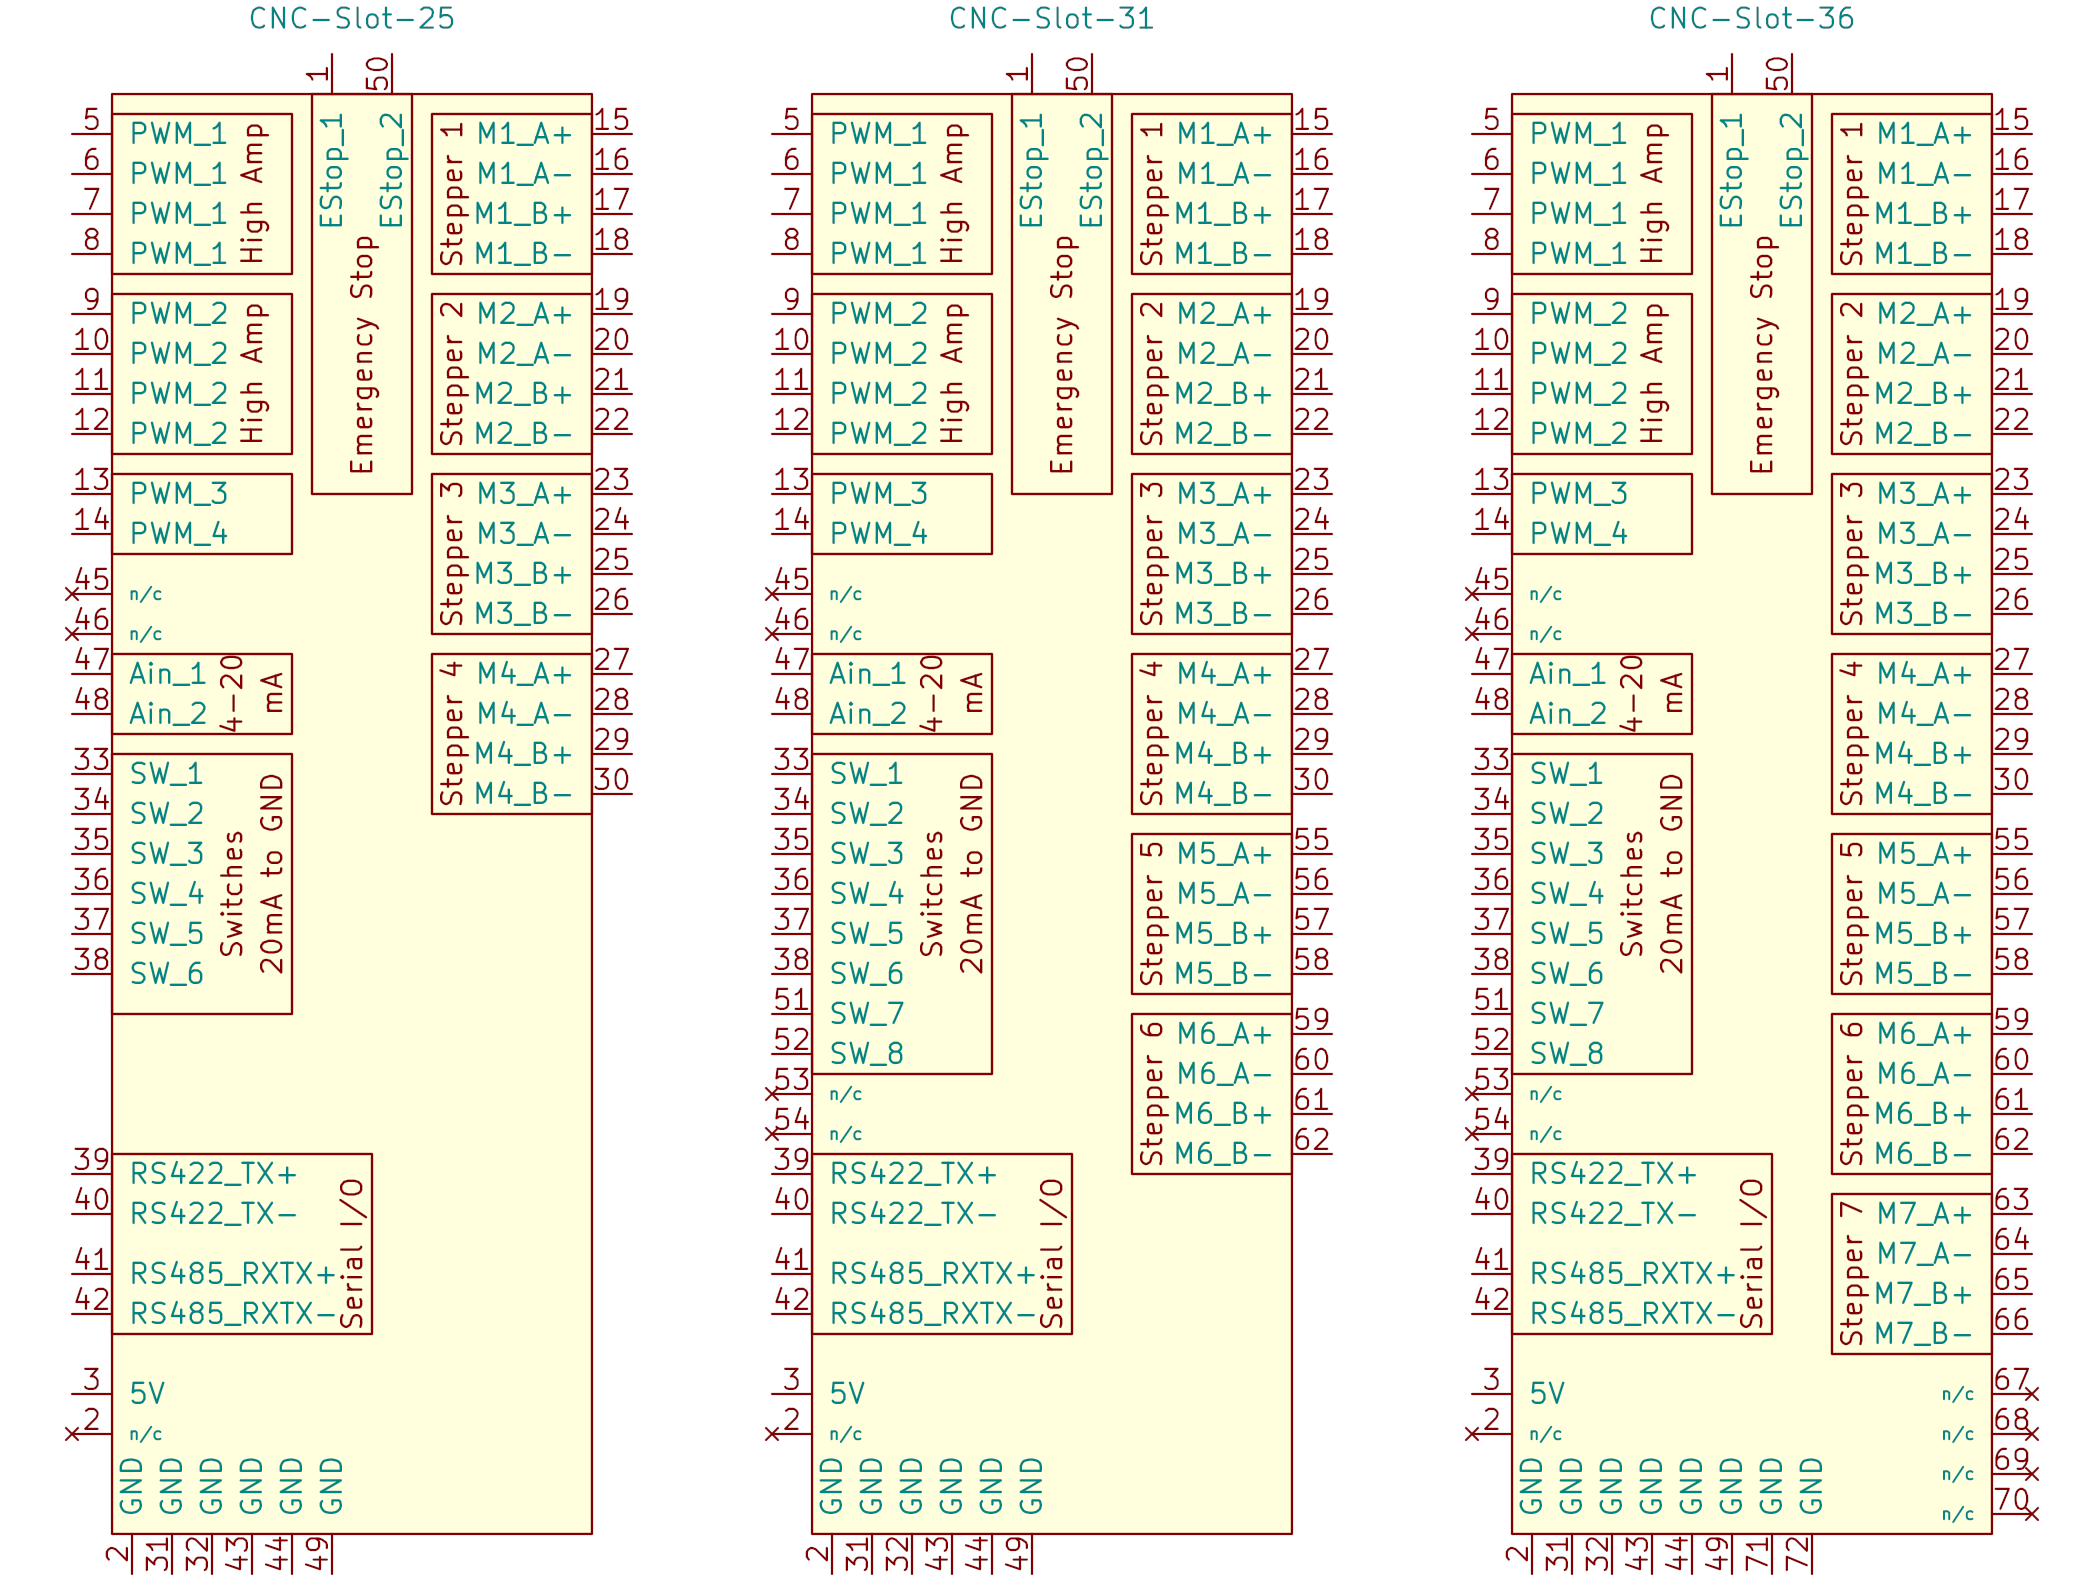
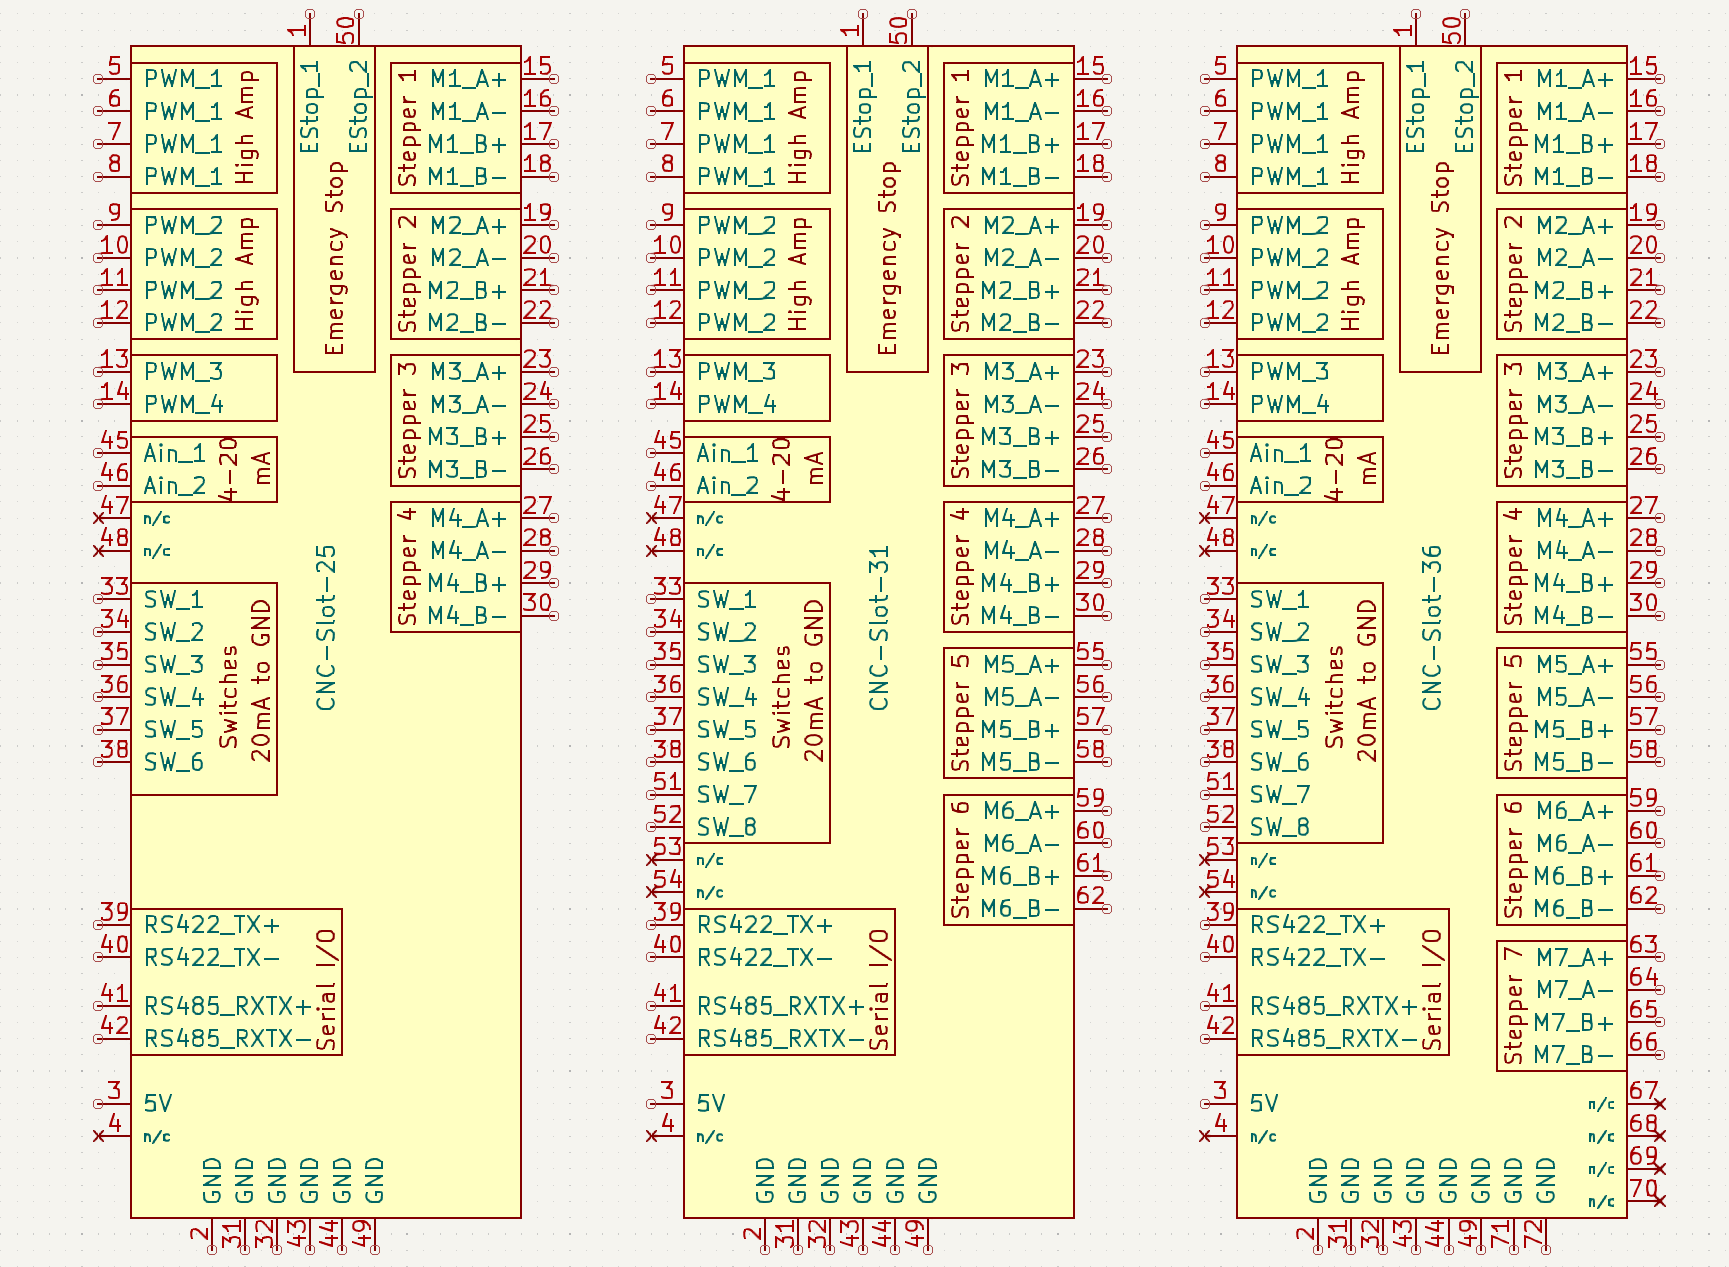
Move A_in 1 and 2 to 45 and 46.
Also fix schematic symbol to not have 2 not connected, but 4.

diff --git a/cnc-slot.pretty/card-edge-gen.cc b/cnc-slot.pretty/card-edge-gen.cc
@@ -36,8 +36,8 @@ struct { const char *txt; bool recessed = false; } properties[] = {
     { "RS422_TX+" },     { "RS422_TX-" },
     { "RS485_RXTX+" },   { "RS485_RXTX-" },
     { "GND" },           { "GND" },
-    { "n/c" },           { "n/c" },
     { "Ain_1" },         { "Ain_2" },
+    { "n/c" },           { "n/c" },
     { "GND" },           { "EStop_2", true },
 
     { "SW-7"},           { "SW-8" },

diff --git a/README.md b/README.md
@@ -102,8 +102,8 @@ N/C = Not Connected. Typically place holders for Version #1 of this spec.
 |20 |    RS422_TX+ | 39  | 40  | RS422_TX-   | RS422-TX. _N/C_ if not supported.
 |21 |  RS485_RXTX+ | 41  | 42  | RS485_RXTX- | RS485 Bus and/or RS422-RX; _N/C_ if not supported.
 |22 |          GND | 43  | 44  | GND
-|23 |        _N/C_ | 45  | 46  | _N/C_       | Not connected in Version #1.
-|24 |        Ain_1 | 47  | 48  | Ain_2       | Analog inputs. 4-20mA to GND.
+|23 |        Ain_1 | 45  | 46  | Ain_2       | Analog inputs. 4-20mA to GND.
+|24 |        _N/C_ | 47  | 48  | _N/C_       | Not connected in Version #1.
 |25 |          GND | 49  | 50  | EStop_2     | **[---- END 25 Pos configuration ----]**
 |26 |         SW_7 | 51  | 52  | SW_8        | similar to SW_1 to SW_6
 |27 |        _N/C_ | 53  | 54  | _N/C_       | N/C in Version #1 (future: CAN+/CAN- or I²C SDA/SCL ?)
@@ -113,7 +113,7 @@ N/C = Not Connected. Typically place holders for Version #1 of this spec.
 |31 |        M6_B+ | 61  | 62  | M6_B-       | **[---- END 31 Pos configuration ----]**
 |32 |        M7_A+ | 63  | 64  | M7_A-       | Stepper 7.
 |33 |        M7_B+ | 65  | 66  | M7_B-       |
-|34 |       _N/C_  | 67  | 68  | _N/C_       | TODO: what else we want ? 8th motor?
+|34 |       _N/C_  | 67  | 68  | _N/C_       | TODO: what else we want ? 8th motor? Ain?
 |35 |       _N/C_  | 69  | 70  | _N/C_
 |36 |         GND  | 71  | 72  | GND         | **[---- END 36 Pos configuration ----]**
 
